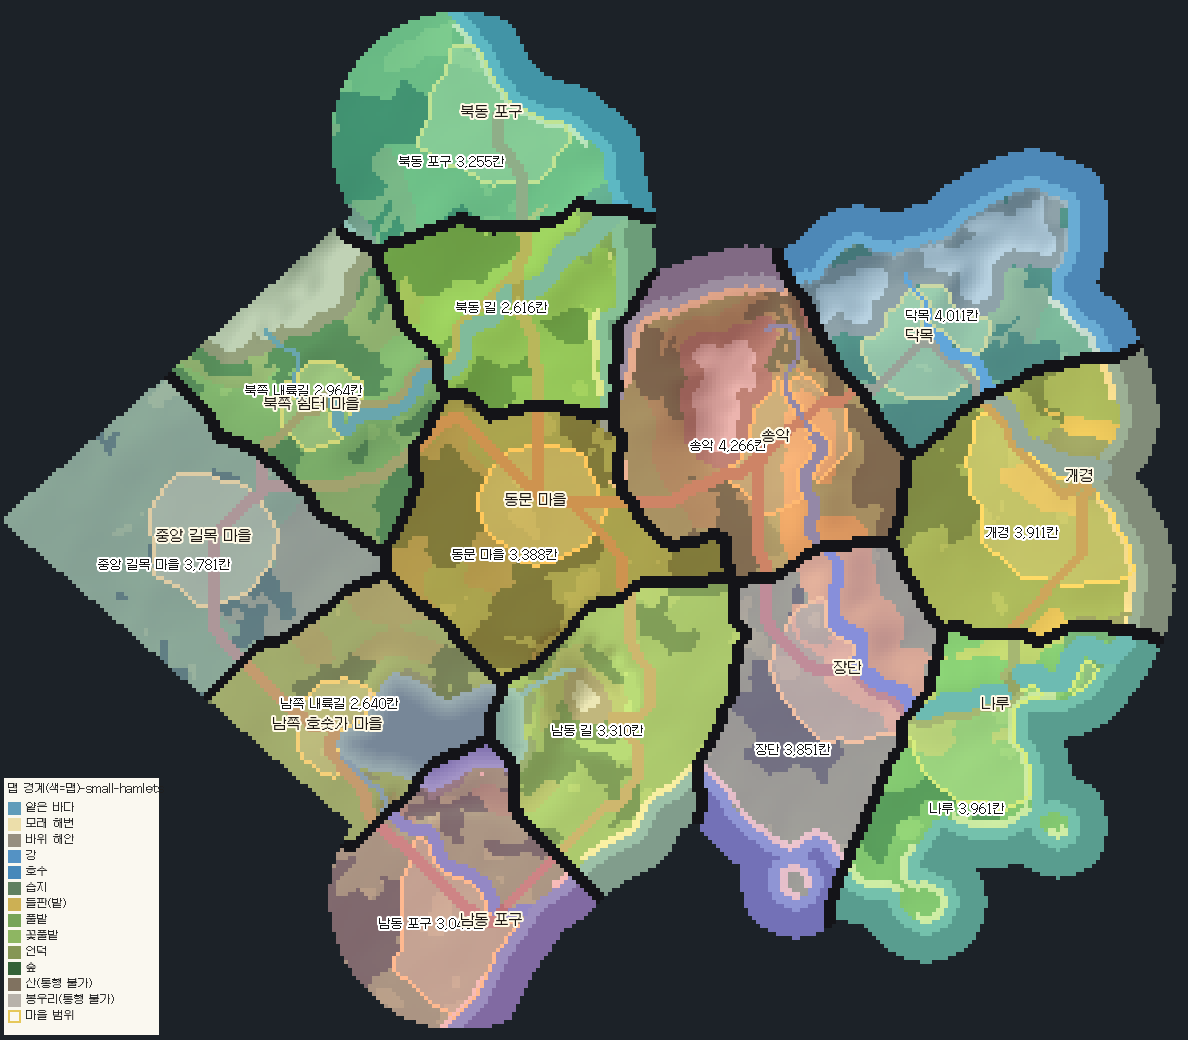
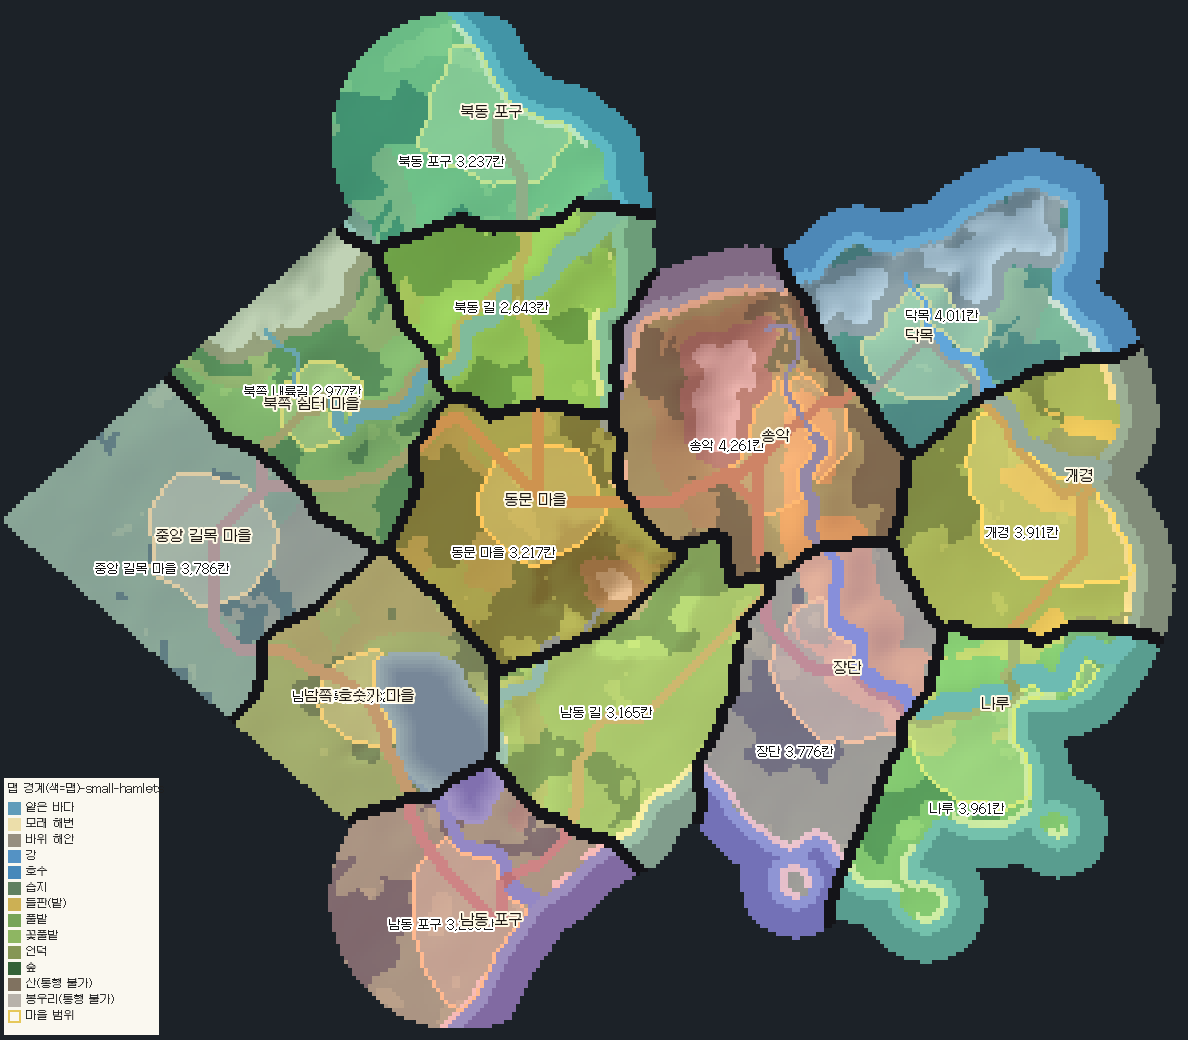
M1: 호수를 골짜기 호수로(상류 산 → 강 → 호수 → 바다 한 축)
Claude-Session: https://claude.ai/code/session_01LeGdCGGAkPbpRa1d2kF6Yd

diff --git a/Tools/WorldLayout/terrain_v3.py b/Tools/WorldLayout/terrain_v3.py
@@ -237,7 +237,9 @@ def build(layout):
         core&=((xx_+X0)>=bx0+10)&((xx_+X0)<bx1-10)&((yy_+Y0)>=by0+10)&((yy_+Y0)<by1-10)
         seed=np.unravel_index(int(np.argmin(np.where(core,E,np.inf))),E.shape)
         # 모양: 길쭉한 타원에 만·곶을 만드는 굴곡(각도에 따른 낮은 주파수 사인 합)
-        r0=math.sqrt(lk['area']/math.pi);asp=1.55;ang=rng.uniform(0,math.pi)
+        # 골짜기 호수: 상류(산) → 호수 → 출구(바다) 축을 따라 길쭉하게
+        sy_,sx_=np.nonzero(sea);k0=int(np.argmin((sy_-seed[0])**2+(sx_-seed[1])**2))
+        r0=math.sqrt(lk['area']/math.pi);asp=1.9;ang=math.atan2(sy_[k0]-seed[0],sx_[k0]-seed[1])+rng.uniform(-.25,.25)
         ph=rng.uniform(0,2*math.pi,4);amp=(.16,.10,.06,.04)
         dy_=yy_-seed[0];dx_=xx_-seed[1]
         u=dx_*math.cos(ang)+dy_*math.sin(ang);v=-dx_*math.sin(ang)+dy_*math.cos(ang)
@@ -285,39 +287,47 @@ def build(layout):
         t[hillring&(forest_n>.42)]=FOREST;t[hillring&(forest_n<=.42)]=HILL
         elev=np.where(ringz,np.maximum(elev,np.quantile(elev[land],.82)*bump+elev*(1-bump)),elev)
         lk['hillCells']=int(hillring.sum())
-        # 수원지: 출구 반대편에 작은 산 하나(봉우리 + 산자락 숲)를 두고,
-        # 그 산 높은 비탈에서 시작한 개울 1줄기가 호수로 든다.
+        # 수원지: 출구 반대편 상류 쪽, 호수에서 떨어진 곳에 작은 산 덩어리 하나를 두고
+        # 그 산 비탈에서 시작한 강 1줄기가 낮은 골짜기를 따라 굽이쳐 호수 상류 끝으로 든다.
         R_l=math.sqrt(m.sum()/math.pi);back=ang_out+math.pi
-        ctr_=None
-        for dist_ in (R_l+21,R_l+19,R_l+23,R_l+17):
-            mcx,mcy=cx+math.cos(back)*dist_,cy+math.sin(back)*dist_
-            iy,ix=int(round(mcy)),int(round(mcx))
-            if 0<=iy<H and 0<=ix<W and east[iy,ix] and land[iy,ix] and far[iy,ix] and not m[iy,ix]:
-                ctr_=(mcy,mcx);break
+        best_=None
+        for dist_ in np.arange(R_l+38,R_l+20,-2):
+            for da in np.radians([0,15,-15,30,-30,45,-45]):
+                mcx,mcy=cx+math.cos(back+da)*dist_,cy+math.sin(back+da)*dist_
+                iy,ix=int(round(mcy)),int(round(mcx))
+                if not(0<=iy<H and 0<=ix<W):continue
+                yl,yh,xl,xh=max(0,iy-9),min(H,iy+10),max(0,ix-9),min(W,ix+10)
+                if east[yl:yh,xl:xh].all() and land[yl:yh,xl:xh].all() and far[iy,ix] and to_sea[iy,ix]>14 and not river[yl:yh,xl:xh].any():
+                    best_=(mcy,mcx);break
+            if best_:break
         inflow=[]
-        if ctr_:
-            mcy,mcx=ctr_
-            # 둥근 원뿔이 되지 않게: 한쪽으로 조금 길쭉하고(능선 방향은 무작위), 좌표를 비틀어 산자락이 불규칙하게 퍼진다
+        if best_:
+            mcy,mcx=best_
             wob_=noise((H,W),5,rng,3);wy2=noise((H,W),9,rng,3)-.5;wx2=noise((H,W),9,rng,3)-.5
-            a_m=rng.uniform(0,math.pi);du=(xx_-mcx)+6*wx2;dv=(yy_-mcy)+6*wy2
+            a_m=back+math.pi/2+rng.uniform(-.4,.4)     # 산 덩어리는 골짜기와 엇갈리게 조금 길쭉
+            du=(xx_-mcx)+6*wx2;dv=(yy_-mcy)+6*wy2
             pu=du*math.cos(a_m)+dv*math.sin(a_m);pv=-du*math.sin(a_m)+dv*math.cos(a_m)
-            dr_=np.hypot(pu/1.45,pv*1.1)*(1+.35*(wob_-.5))
-            prof=np.exp(-(dr_/4.5)**2)+.45*np.exp(-(dr_/9)**2)
-            zone=(dr_<11)&east&land&~m&~river
-            # 산자락 높이도 노이즈로 흔들어 동심원 무늬가 보이지 않게
+            dr_=np.hypot(pu/1.35,pv)*(1+.35*(wob_-.5))
+            prof=np.exp(-(dr_/6)**2)+.5*np.exp(-(dr_/12)**2)
+            zone=(dr_<14)&east&land&~m&~river
             elev=np.where(zone,np.maximum(elev,.55+.45*prof*(.8+.4*wob_)),elev)
-            t[zone&(dr_<9.5)&(forest_n>.33)]=FOREST;t[zone&(dr_<9.5)&(forest_n<=.33)]=HILL
-            t[zone&(dr_<5.2)]=MOUNTAIN;t[zone&(dr_<2.4)]=PEAK
+            t[zone&(dr_<12.5)&(forest_n>.30)]=FOREST;t[zone&(dr_<12.5)&(forest_n<=.30)]=HILL
+            t[zone&(dr_<7.4)]=MOUNTAIN;t[zone&(dr_<3.8)]=PEAK
             lk['sourceMountain']=[round(mcx+X0,1),round(mcy+Y0,1)]
-            # 개울 1줄기: 산의 호수 쪽 비탈, 산 바로 바깥의 가장 높은 곳에서 시작
+            # 강 1줄기: 산의 호수 쪽 비탈 높은 곳 → 호수의 상류 끝(출구 반대쪽 물가)
             lakeward=((yy_-mcy)*(cy-mcy)+(xx_-mcx)*(cx-mcx))>0
-            cand_=np.argwhere(zone&lakeward&~np.isin(t,[MOUNTAIN,PEAK])&(dr_<7.5))
+            cand_=np.argwhere(zone&lakeward&~np.isin(t,[MOUNTAIN,PEAK])&(dr_<9.5))
             if len(cand_):
                 h0=tuple(cand_[np.argmax(elev[tuple(cand_.T)])])
-                mc=np.argwhere(m);m0=tuple(mc[np.argmin(((mc-np.array(h0))**2).sum(1))])
-                seg=astar(h0,m0,1+12*elev,blocked=np.isin(t,[MOUNTAIN,PEAK]),eight=True)
+                mc=np.argwhere(m);far_end=np.cos(np.arctan2(mc[:,0]-cy,mc[:,1]-cx)-back)*np.hypot(mc[:,0]-cy,mc[:,1]-cx)
+                tip=mc[far_end>np.quantile(far_end,.9)]
+                m0=tuple(tip[np.argmin(((tip-np.array(h0))**2).sum(1))])
+                seg=astar(h0,m0,1+14*elev,blocked=np.isin(t,[MOUNTAIN,PEAK]),eight=True)
                 inflow.append(seg)
-                yy3,xx3=m0;t[(((yy_-yy3)**2+(xx_-xx3)**2)<3.5**2)&land&~m&(marsh_n>.35)]=MARSH
+                yy3,xx3=m0;t[(((yy_-yy3)**2+(xx_-xx3)**2)<4**2)&land&~m&(marsh_n>.4)]=MARSH
+                # 강 골짜기: 강을 따라 땅을 조금 낮춘다
+                vm=np.zeros((H,W),bool);vm[tuple(np.array(seg).T)]=True
+                elev=elev-.10*np.exp(-(ndimage.distance_transform_edt(~vm)/4)**2)*~zone
         def meander(path,amp_=2.6,lam_=13):
             # A* 길을 따라가며 옆으로 흔들어 굽이치게(땅 위에서만)
             if len(path)<8:return path
@@ -329,10 +339,10 @@ def build(layout):
                 q=(int(round(y-tx/L_*o)),int(round(x+ty/L_*o)))
                 out_.append(q if 0<=q[0]<H and 0<=q[1]<W and (land[q] or sea[q]) and not m[q] else (y,x))
             return smooth_path(out_,np.zeros((H,W),bool))
-        for path,width in [(out,1.2)]+[(q_,.8) for q_ in inflow]:
+        for path,width in [(out,1.3)]+[(q_,1.0) for q_ in inflow]:
             pts=meander(path)
             for i_,(y,x) in enumerate(pts):
-                rad=width*(.7+.5*i_/max(1,len(pts))) if path is out else width
+                rad=width*(.7+.5*i_/max(1,len(pts))) if path is out else .75+.7*(i_/max(1,len(pts)))
                 rr=int(math.ceil(rad))
                 for dy in range(-rr,rr+1):
                     for dx in range(-rr,rr+1):
@@ -342,7 +352,7 @@ def build(layout):
     t[river]=RIVER
     d_river=ndimage.distance_transform_edt(~(river|lake))
     shore=ndimage.binary_dilation(lake,iterations=2)&land&~lake&~river
-    t[shore&(marsh_n>.55)]=MARSH;t[shore&(marsh_n<.25)]=SAND
+    t[shore&(marsh_n<.22)]=SAND   # 호숫가 모래톱 몇 곳(습지는 강 하구에만)
     t[lake]=LAKE
 
     # 4) 마을 자리와 범위(v4): 승인 위치 가까이에서 마을이 들어서기 좋은 땅을 고르고, 둥글고 자연스러운 모양으로 넓힌다
